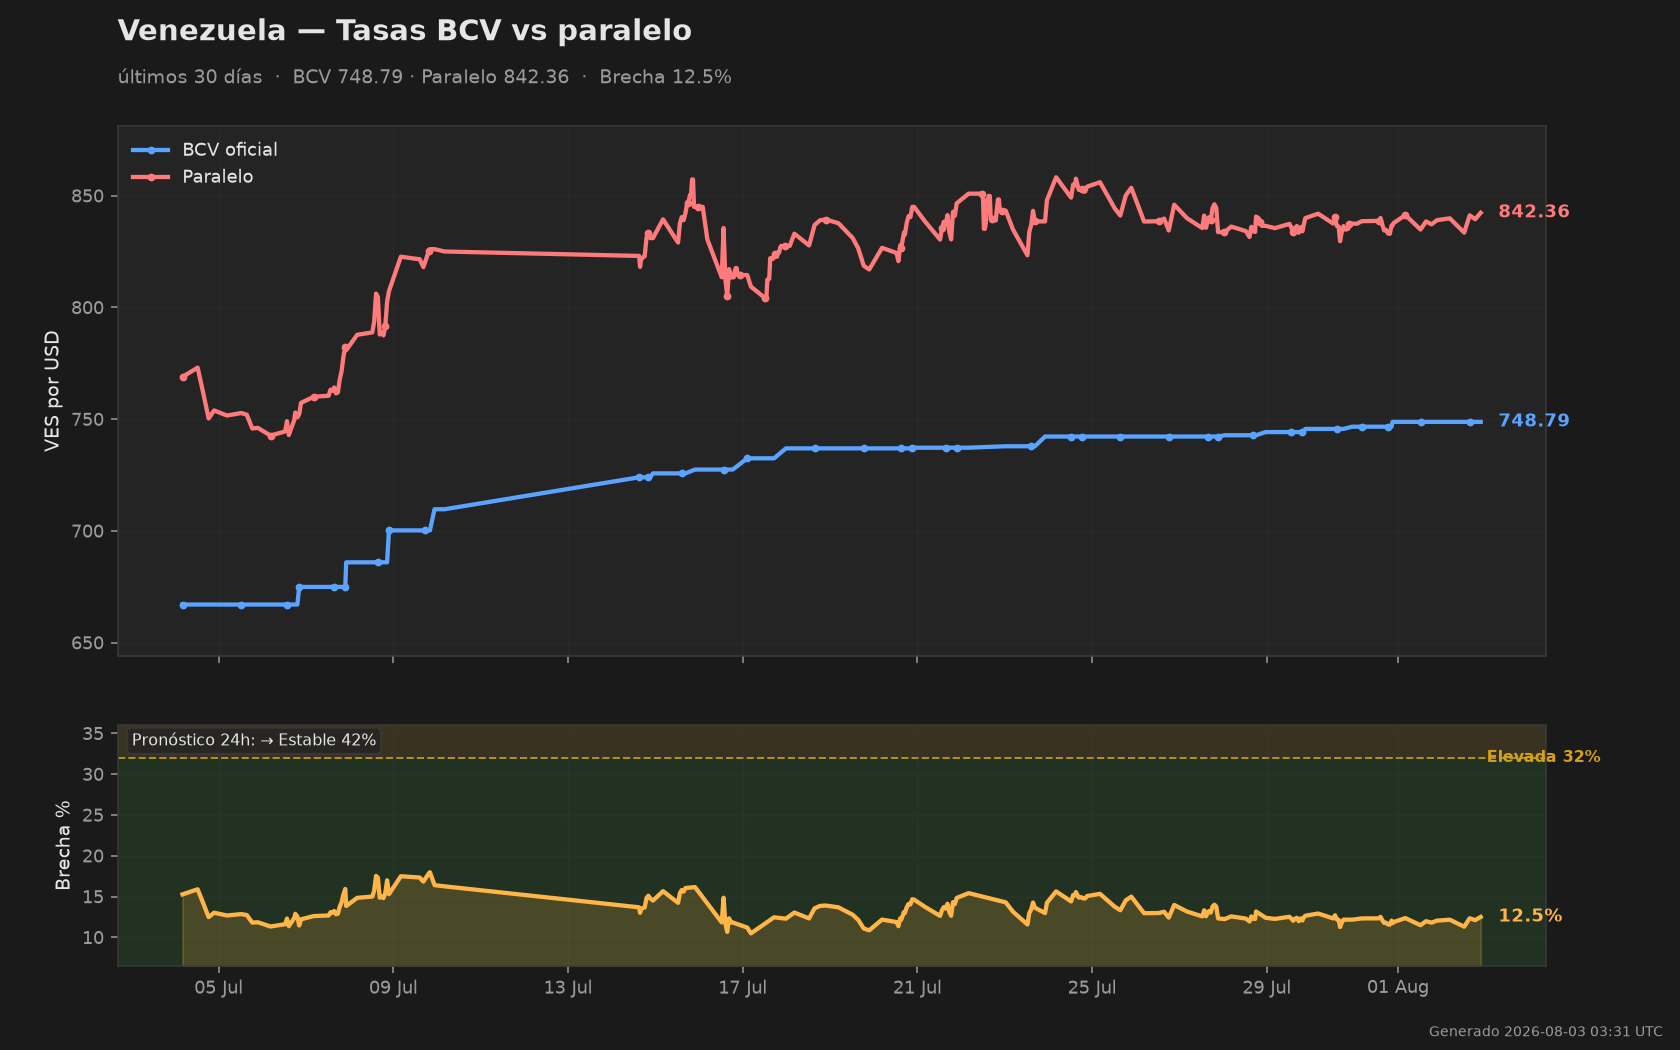
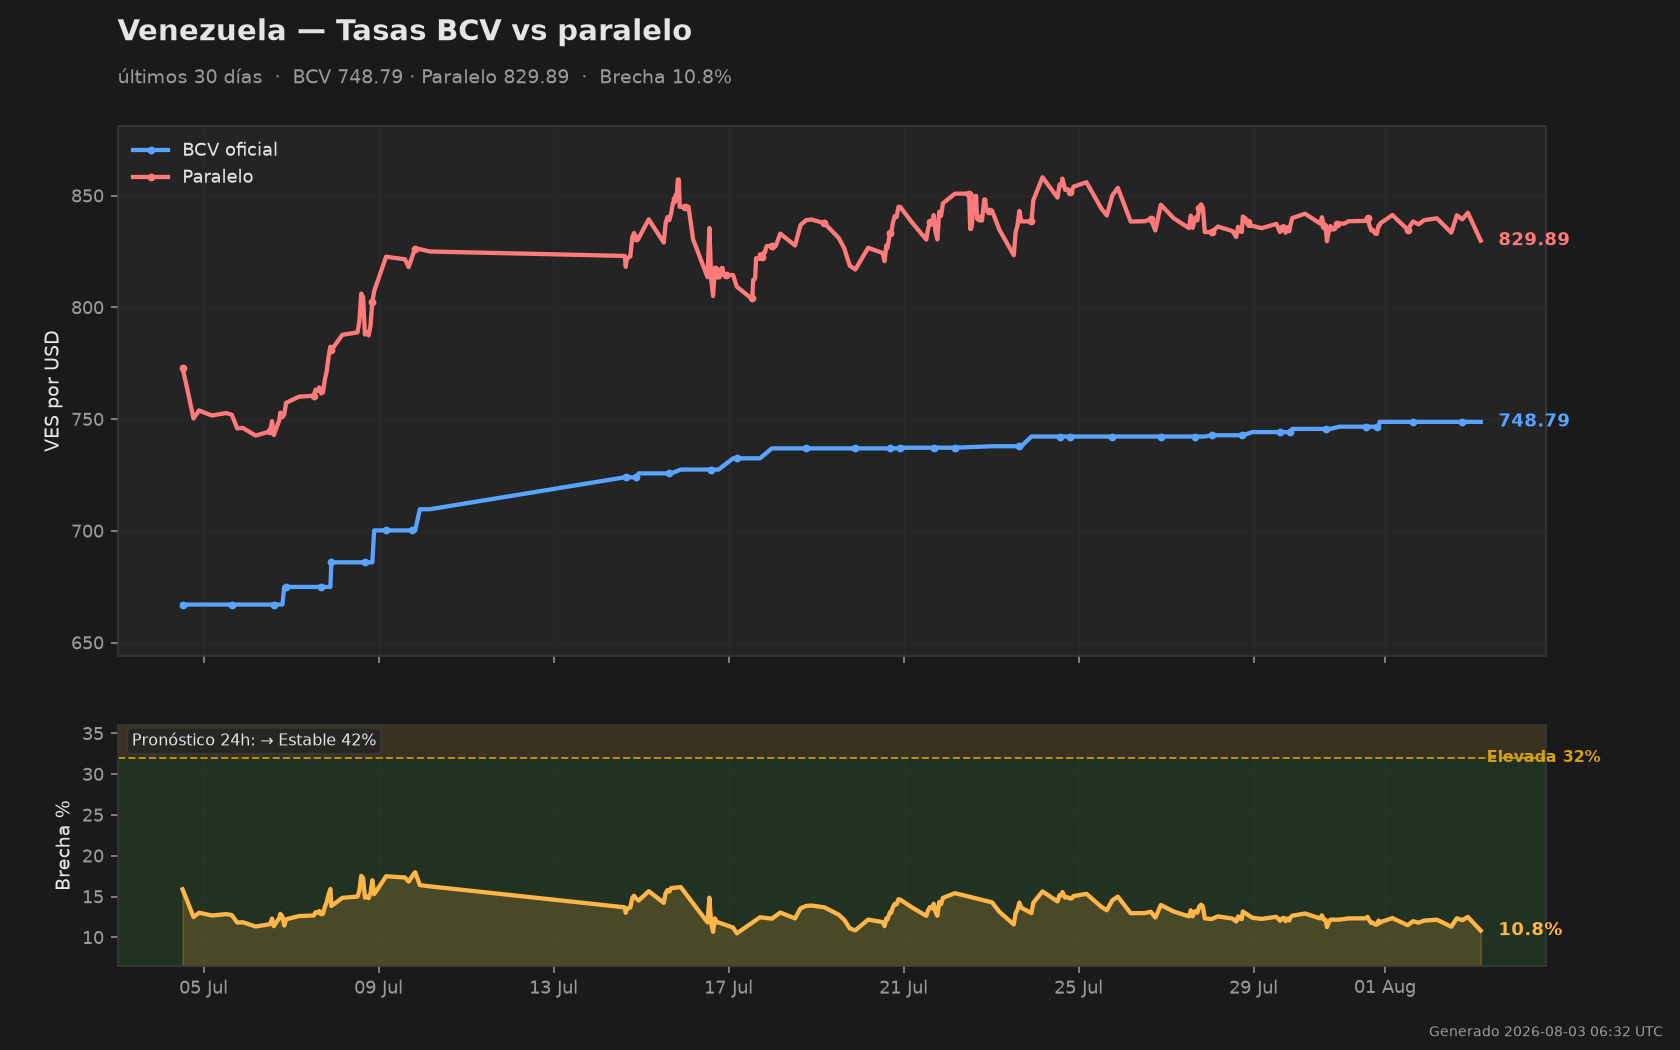
Dashboard update 2026-08-03 06:32 UTC

diff --git a/README.md b/README.md
@@ -11,11 +11,11 @@
 | Metric · Métrica | Value · Valor |
 |---|---|
 | BCV Oficial | **748.79** VES/USD |
-| Paralelo | **842.36** VES/USD |
-| Brecha · Spread | **12.5%** |
-| Binance P2P USDT/VES | **844.15** VES/USDT (+0.2% vs paralelo) |
+| Paralelo | **829.89** VES/USD |
+| Brecha · Spread | **10.8%** |
+| Binance P2P USDT/VES | **843.97** VES/USDT (+1.7% vs paralelo) |
 | **Pronóstico 24h · 24h Forecast** | **→ Estable · Stable (63%)** |
-| Actualizado · Updated | 2026-08-02 21:29 UTC |
+| Actualizado · Updated | 2026-08-03 04:32 UTC |
 
 ![Venezuela BCV vs parallel rate — last 30 days](data/chart.png)
 
